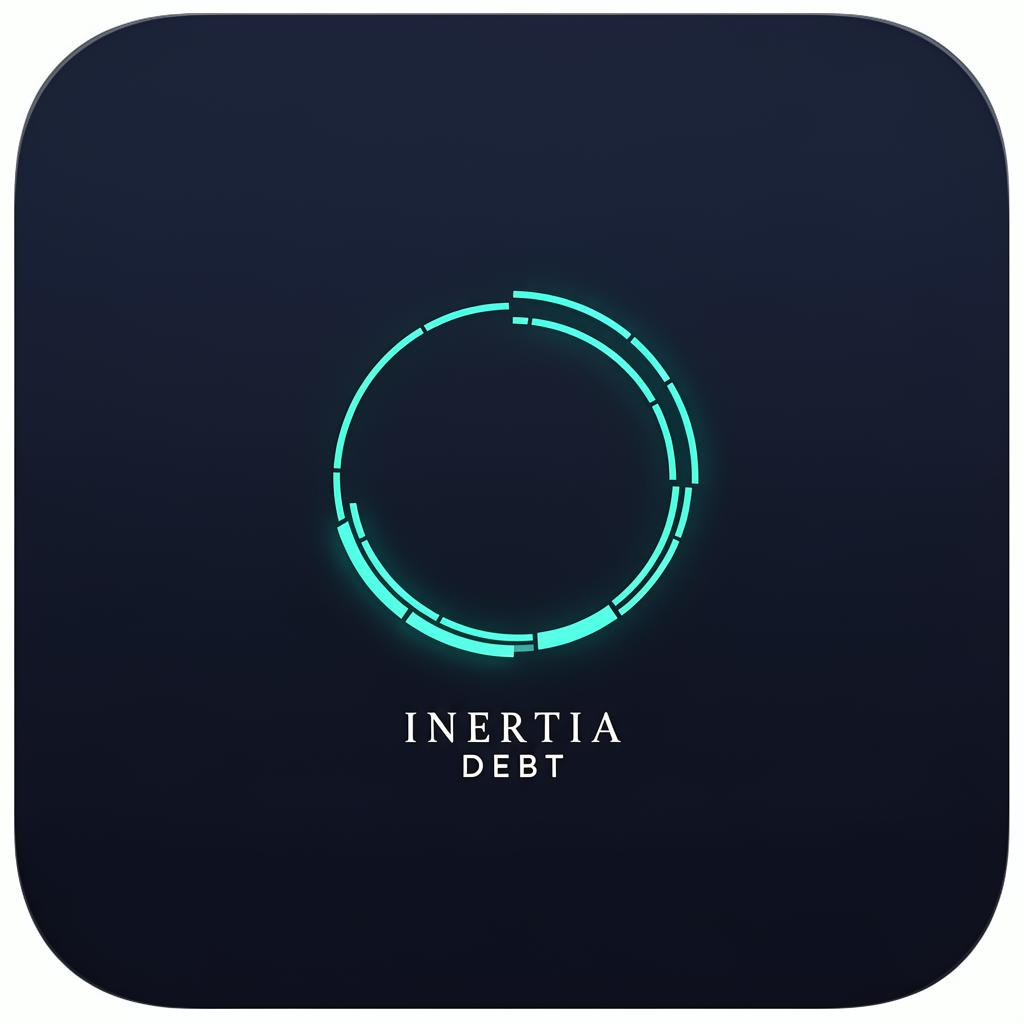
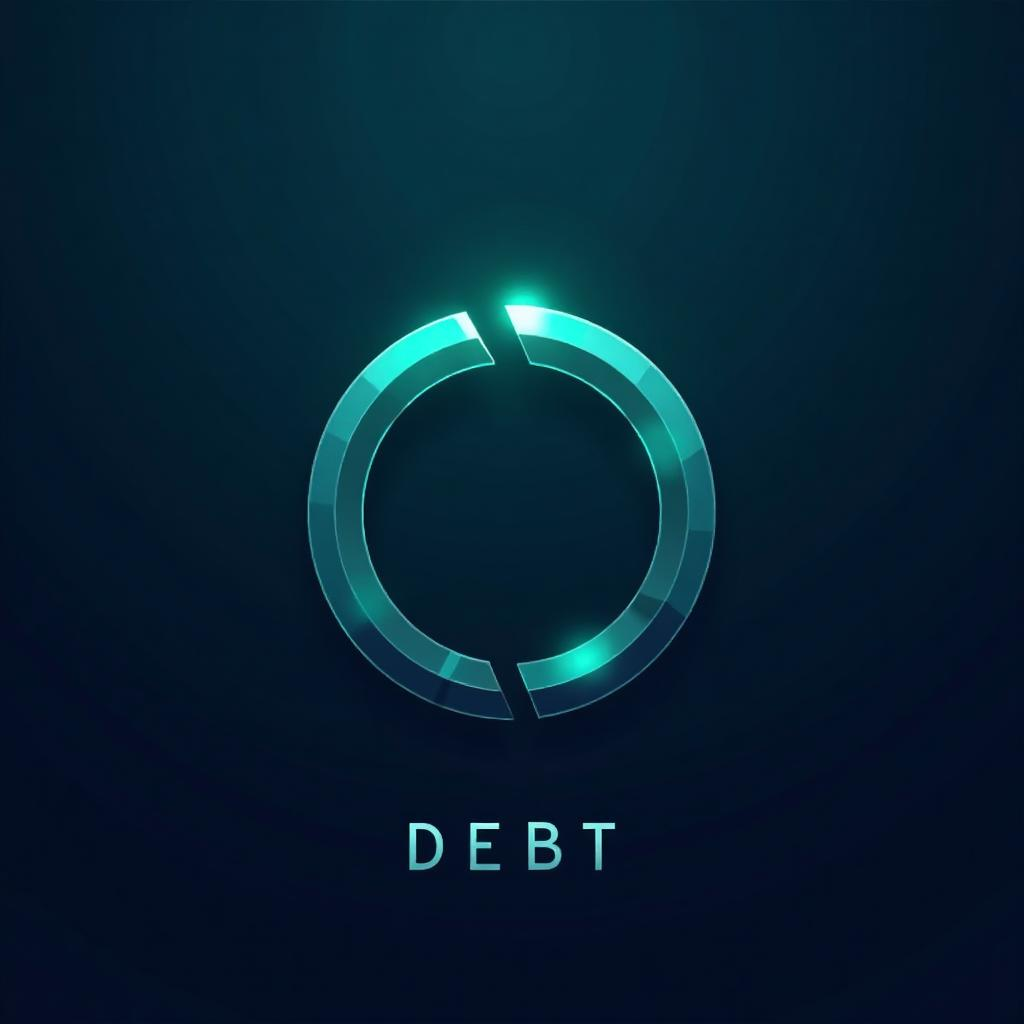
Changes

diff --git a/src/pages/Index.tsx b/src/pages/Index.tsx
@@ -4,6 +4,7 @@ import KineticSphere from "../components/KineticSphere";
 import { Rocket, Bell, CheckCircle2, ArrowRight, Play, Pause } from "lucide-react";
 import gameplayTrailer from "@/assets/gameplay-trailer.mp4";
 import logoImg from "@/assets/inertia-debt-logo.png";
+import appIconImg from "@/assets/inertia-debt-app-icon.png";
 import AnimatedSection from "../components/AnimatedSection";
 import DebtMeter from "../components/DebtMeter";
 
@@ -724,17 +725,53 @@ const Index = () => {
       </section>
 
       {/* ═══════════ PRE-LAUNCH ═══════════ */}
-      <section id="pre-launch" className="py-32 relative">
+      <section id="pre-launch" className="py-32 relative overflow-hidden">
+        {/* Premium background accents */}
+        <div className="absolute inset-0 pointer-events-none">
+          <div className="absolute top-1/2 left-1/2 -translate-x-1/2 -translate-y-1/2 w-[600px] h-[600px] rounded-full bg-primary/[0.03] blur-[120px]" />
+          <div className="absolute top-0 left-0 right-0 h-px bg-gradient-to-r from-transparent via-primary/20 to-transparent" />
+          <div className="absolute bottom-0 left-0 right-0 h-px bg-gradient-to-r from-transparent via-primary/20 to-transparent" />
+        </div>
+
         <div className="container mx-auto px-4 relative z-10">
-          <div className="text-center mb-16">
-            <motion.img
-              src={logoImg}
-              alt="INERTIA DEBT"
-              className="h-28 md:h-40 w-auto mx-auto mb-8"
-              initial={{ opacity: 0, scale: 0.9 }}
+          <div className="text-center mb-20">
+            {/* App icon with glowing frame */}
+            <motion.div
+              className="relative w-28 h-28 md:w-36 md:h-36 mx-auto mb-10"
+              initial={{ opacity: 0, scale: 0.8 }}
               whileInView={{ opacity: 1, scale: 1 }}
               viewport={{ once: true }}
               transition={{ duration: 0.8, type: "spring" }}
+            >
+              {/* Outer glow ring */}
+              <motion.div
+                className="absolute -inset-3 rounded-3xl"
+                style={{ background: "linear-gradient(135deg, hsl(175, 80%, 40%, 0.3), hsl(185, 65%, 50%, 0.1), hsl(175, 80%, 40%, 0.3))" }}
+                animate={{ opacity: [0.5, 0.8, 0.5] }}
+                transition={{ repeat: Infinity, duration: 3, ease: "easeInOut" }}
+              />
+              {/* Icon */}
+              <img
+                src={appIconImg}
+                alt="INERTIA DEBT"
+                className="relative w-full h-full rounded-2xl border border-primary/20 shadow-lg shadow-primary/10 object-cover"
+              />
+              {/* Corner accents */}
+              <div className="absolute -top-1 -left-1 w-4 h-4 border-t-2 border-l-2 border-primary/40 rounded-tl-lg" />
+              <div className="absolute -top-1 -right-1 w-4 h-4 border-t-2 border-r-2 border-primary/40 rounded-tr-lg" />
+              <div className="absolute -bottom-1 -left-1 w-4 h-4 border-b-2 border-l-2 border-primary/40 rounded-bl-lg" />
+              <div className="absolute -bottom-1 -right-1 w-4 h-4 border-b-2 border-r-2 border-primary/40 rounded-br-lg" />
+            </motion.div>
+
+            {/* Logo */}
+            <motion.img
+              src={logoImg}
+              alt="INERTIA DEBT"
+              className="h-16 md:h-20 w-auto mx-auto mb-10"
+              initial={{ opacity: 0, y: 20 }}
+              whileInView={{ opacity: 1, y: 0 }}
+              viewport={{ once: true }}
+              transition={{ delay: 0.2, duration: 0.6 }}
             />
 
             <motion.div
@@ -757,7 +794,9 @@ const Index = () => {
           {/* Status */}
           <div className="max-w-4xl mx-auto grid md:grid-cols-2 gap-8 mb-12">
             <AnimatedSection delay={0.1}>
-              <div className="py-8 px-8 border border-border/20 rounded-xl">
+              <div className="py-8 px-8 border border-border/20 rounded-xl bg-card/30 backdrop-blur-sm relative overflow-hidden">
+                <div className="absolute inset-0 bg-gradient-to-br from-primary/[0.03] via-transparent to-transparent pointer-events-none" />
+                <div className="relative z-10">
                 <h3 className="text-xs font-mono text-primary/60 tracking-widest mb-6">DEPLOYMENT DETAILS</h3>
                 <div className="grid grid-cols-2 gap-6">
                   {[
@@ -774,11 +813,13 @@ const Index = () => {
                     </motion.div>
                   ))}
                 </div>
+                </div>
               </div>
             </AnimatedSection>
 
             <AnimatedSection delay={0.2}>
-              <div className="py-8 px-8 border border-border/20 rounded-xl">
+              <div className="py-8 px-8 border border-border/20 rounded-xl bg-card/30 backdrop-blur-sm relative overflow-hidden">
+                <div className="absolute inset-0 bg-gradient-to-br from-primary/[0.03] via-transparent to-transparent pointer-events-none" />
                 <h3 className="text-xs font-mono text-primary/60 tracking-widest mb-6">MILESTONES</h3>
                 <div className="space-y-4">
                   {[
